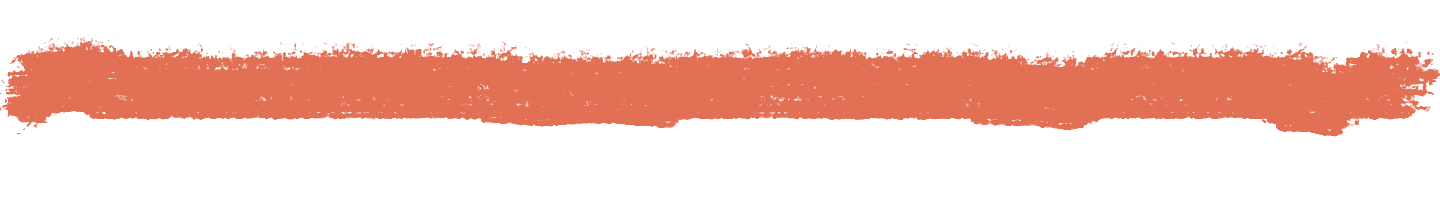
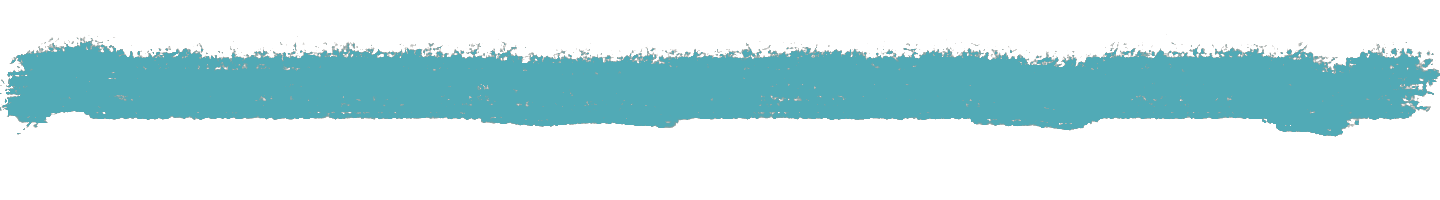
changement de couleur + bouton plus
changer les couleur ajout du bouton plus

diff --git a/index.html b/index.html
@@ -5,7 +5,7 @@
     <meta http-equiv="X-UA-Compatible" content="IE=edge">
     <meta name="viewport" content="width=device-width, initial-scale=1.0">
     <link rel="stylesheet" href="assets/css/style.css">
-    <link rel="icon" href="assets/images/logo-unvisible.png">
+    <link rel="icon" href="assets/images/favicon.jpg">
     <title>UN VISBLE</title>
 </head>
 <body>
@@ -13,9 +13,9 @@
         <nav class="displayflex">
             <ul class="displayflex">
                 <li><a href="#pres-produit">Objet</a></li>
-                <li><a href="#dons">Faire un Don</a></li>
+                <li><a href="#dons">Faire un don</a></li>
             </ul>
-            <img src="assets/images/logo-unvisible.png" alt="logo de unvisible" class="logo">
+            <img src="assets/images/logo-unvisible-blc.png" alt="logo de unvisible" class="logo">
             <ul class="displayflex">
                 <li><a href="#questionnaire">Demande d'intervention</a></li>
                 <li><a href="#news">Actualité</a></li>
@@ -37,14 +37,15 @@
                 <h3 class="Règles">Règles du jeux</h2>
                 L’enfant tire une carte, doit passer la carte sur le lecteur, écouter l’histoire de la personne représentée sur la carte puis un débat et un vote à main levée entre les joueurs est effectué pour définir l’émotion cachée sur la carte en appuyant sur un des 5 boutons (Joie, Peur, Colère, Tristesse, Dégoût) qui représente les émotions. La boîte s'illumine en vert si c’est bon et en rouge si ça ne l’est pas.<br/> <br/>
             </p>
-            <div class="deux pres">
-            <p>
-                Âge conseillé : de 7 ans à 10 ans;<br/>
-                Nombre de joueurs: ;<br/>
-                Durée: 45min-1h00;<br/>
-                Mécanisme de coopération;<br/>
-                Thèmes: Les émotions;<br/>
-                Lieu de Fabrication: Île de france;<br/></p>
+            <div class="plusinfo pres">
+              <ul>
+                <li>Âge conseillé : de 7 ans à 10 ans;</li>
+                <li>Nombre de joueurs: ;</li>
+                <li> Durée: 45min-1h00;</li>
+                <li>Mécanisme de coopération;</li>
+                <li> Thèmes: Les émotions;</li>
+                <li>Lieu de Fabrication: Île de france;</li>
+              </ul>
             </div>
                 <button class="plus">Plus d'infos</button>
              <a href="#payment" class="ctachat">Précommander</a>
@@ -53,7 +54,7 @@
     </section>
     <!--Jauge de dons-->
     <section class="jauge" id="dons">
-            <h2>Don Obtenu </h2>
+            <h2>Don obtenu </h2>
             <div class="progressbar-wrapper">
                 <div title="downloading" class="progressbar donspourcentage" id="donspourcentage"><span id="pourcentage">1</span>%</div>
                </div>
@@ -72,7 +73,7 @@
     
     <section class="payment" id="payment">
         <div class="title">
-        <h2>Précommander UnVisible</h2>
+        <h2 class="title-deux">Précommander UnVisible</h2>
         </div>
         <div class="contenu displayflex">
         <div class="cadeaux">
@@ -82,7 +83,7 @@
         <div class="txtcadeaux">
             <p>Premier lot <br/> avec le boîtier électronique UnVisible (contenant une boîte vocale, 5 boutons ainsi qu'un lecteur de cartes) ainsi que 20 cartes. Pour commencer à découvrir son utilisation </p>
             <a href="" class="ctacommande">Precommander</a>
-            <p>Deuxieme lot <br/> avec le boîtier électronique UnVisible (contenant une boîte vocale, 5 boutons ainsi qu'un lecteur de cartes) ainsi que 50 cartes. Pour divercifier le jeux et découvrir plus de façon don les émotions peuvent être cacher</p>
+            <p>Deuxième lot <br/> avec le boîtier électronique UnVisible (contenant une boîte vocale, 5 boutons ainsi qu'un lecteur de cartes) ainsi que 50 cartes. Pour diversifier le jeux et découvrir plus de façon don les émotions peuvent être cacher</p>
             <a href="" class="ctacommande">Precommander</a>
         </div>
          </div>
@@ -233,7 +234,7 @@
             <div class="footer-content-column">
               <div class="footer-logo">
                 <a class="footer-logo-link" href="#">
-                  <img src="assets/images/logo-unvisible.png" class="hidden-link-text logo">
+                  <img src="assets/images/logo-unvisible-blc.png" class="hidden-link-text logo">
                 </a>
               </div>
               <div class="footer-menu">

diff --git a/assets/css/style.css b/assets/css/style.css
@@ -21,24 +21,29 @@ body,html{
     padding: 0;
     margin: 0;
     font-family: "inter";
-    font-size: 20px;
+    font-size: 18px;
+    line-height: 24px;
 }
 .title{
     justify-content: center;
     display: flex;
 }
+.title-deux{
+    color: #51aab6;
+}
 h1{
     font-weight: bold;
-    color: #5b0000;
+    font-size: 40px;
+    color: #383840;
 }
 h2{
     margin-left: 40px;
-    color: #5b0000;
+    color: #fc6f08;
     font-family: "Rubik_dirt";
     font-size: 30px;
 }
 h3{
-    color: #5b0000;
+    color: #fc6f08;
 }
 .displayflex{
     display: flex;
@@ -53,7 +58,7 @@ nav{
     height: 50px;
     z-index: 1;
 }
-nav ul{
+ul{
     margin: 0;
     list-style-type: none;
     padding: 0;
@@ -67,14 +72,14 @@ a{
     border-radius: 5px;
 }
 nav a{
-    color: #5b0000;
+    color: #383840;
 }
 nav a:hover{
     font-weight: bold;
 }
 .logo{
-    width: 300px;
-    margin-top: 20px;
+    width: 200px;
+    margin-top: 50px;
 }
 video{
     width: 100%;
@@ -98,24 +103,22 @@ h3{
 }
 .ctapartage{
     float: right;
-    background-color: #5b0000;
-    border: #111111 1px solid;
+    background-color: #51aab6;
     padding: 5px;
     color: #ffffff;
 }
 .ctachat{
-    background-color: #5b0000;
-    border: #111111 1px solid;
+    background-color: #51aab6;
     padding: 5px;
     color: #ffffff;
 }
 .ctacommande{
-    background-color: #5b0000;
+    background-color: #51aab6;
     padding: 5px;
     color: #ffffff;
 }
 .ctacommande :hover{
-    background-color: #e17055;
+    background-color: #51aab6;
 }
 nav img{
     position: absolute;
@@ -126,8 +129,19 @@ button{
     display: block;
     margin: 0 auto;
 }
- .deux{
+ .plusinfo{
     display: none;
+    width: 100%;
+    margin-bottom: 20px;
+
+ }
+ .plus{
+    background-color: #fc6f08;
+    color: #ffffff;
+    font-size: 16px;
+    float: left;
+    margin-right: 20px;
+    border-radius: 8px;
  }
 .hero a{
     position: absolute;
@@ -144,7 +158,7 @@ button{
 }
 /*Jauge*/
 :root {
-    --progress: #e17055;
+    --progress: #383840;
 }
 
 .progressbar-wrapper {
@@ -176,16 +190,14 @@ button{
 .payment{
     flex-direction: column;
     margin-top: 120px;
-    background-color: #ea7d00;
+    background-color: #fc6e0880;
     height: 100%;
 }
 .contenu{
     justify-content: center;
     margin: 50px 120px;
 }
-.precommander{
-    justify-content: center;
-}
+
 .payment .cadeaux img{
     width: 50%;
     border-radius: 20px;
@@ -193,8 +205,8 @@ button{
 }
 .txtcadeaux p {
     margin-top: 100px;
-    color: #fff;
-    font-size: 20px;
+    color: #383840;
+    font-size: 18px;
 }
 /*Avis*/
 .avis{
@@ -265,7 +277,7 @@ button{
     margin-top:  50px;
     border: #ffffff 4px solid;
     border-radius: 10px;
-    background-color: #e17055;
+    background-color: #51aab6;
     color: aliceblue;
     width:750px;
 
@@ -274,7 +286,7 @@ button{
     margin: 20px;
 }
  .button :hover{
-    background-color: #5b0000;
+    background-color: #fc6f08;
     border-radius: 4px;
     border: none;
     color: aliceblue;
@@ -297,7 +309,7 @@ input{
     color: #fff;
 }
 .fond{
-    background-color: rgb(225, 112, 85, .8);
+    background-color: #fc6e0880;
     height: 450px;
 }
 .News{
@@ -322,17 +334,17 @@ input{
     border-radius: 50%;
     color: white;
     font-size: 30px;
-    background-color: rgba(0,0,0,0);
+    background-color: #383840;
     transition: background-color 0.6s ease;
 }
 .prev{ left: 15px; }
 .next { right: 15px; }
 .prev:hover, .next:hover {
-    background-color: rgba(0,0,0,0.5);
+    background-color: #383840;
 }
 .slide-text {
     position: absolute;
-    color: #5b0000;
+    color: #383840;
     font-weight:bold ;
     font-size: 15px;
     padding: 15px;

diff --git a/assets/js/script.js b/assets/js/script.js
@@ -1,16 +1,10 @@
-/*Bouton plus 
-$('button').click(function(){
-  $('.deux').toggle();
-
-  if($('.deux').css("display") == "block"){
-      $('.deux').css("display", "flex");
-      $('button').text("Moin d'infos");
-  }else{
-      $('button').text("Plus d'infos");
-  }
-  
-});*/
-/*jauge */
+//*Bouton plus 
+document.querySelector(".plus").addEventListener("click", apparait);
+function apparait(){
+  document.querySelector(".plusinfo").style.display = "block";
+  this.style.display = "none";
+}
+//*jauge
 var pourcentage = 0;
 function progression(){
     if(pourcentage<60){
